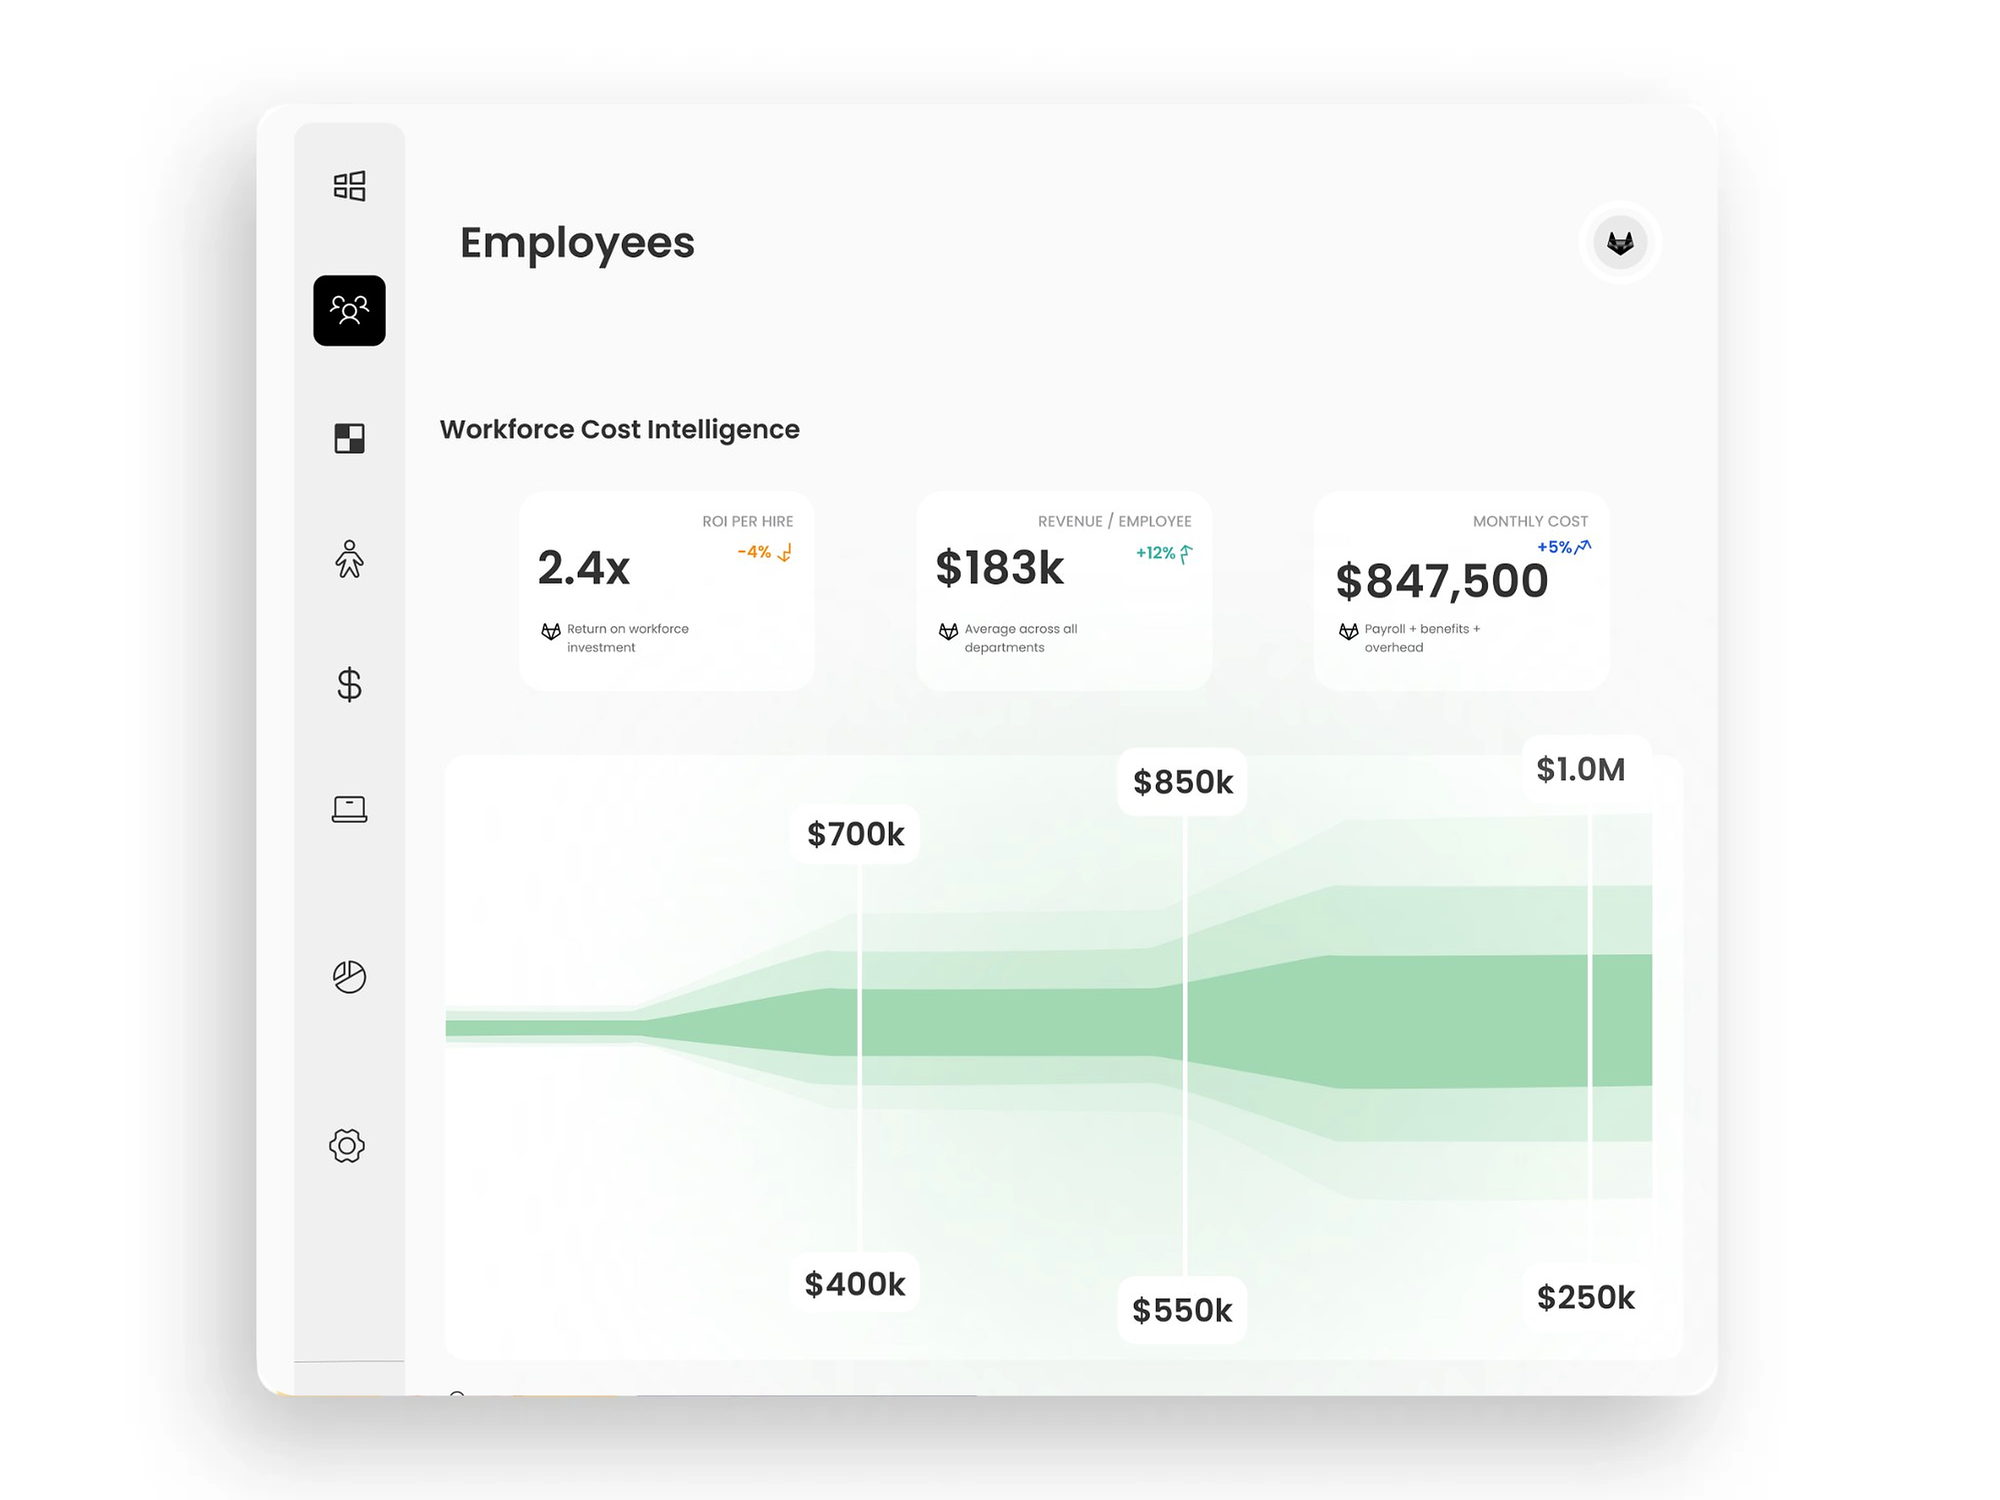
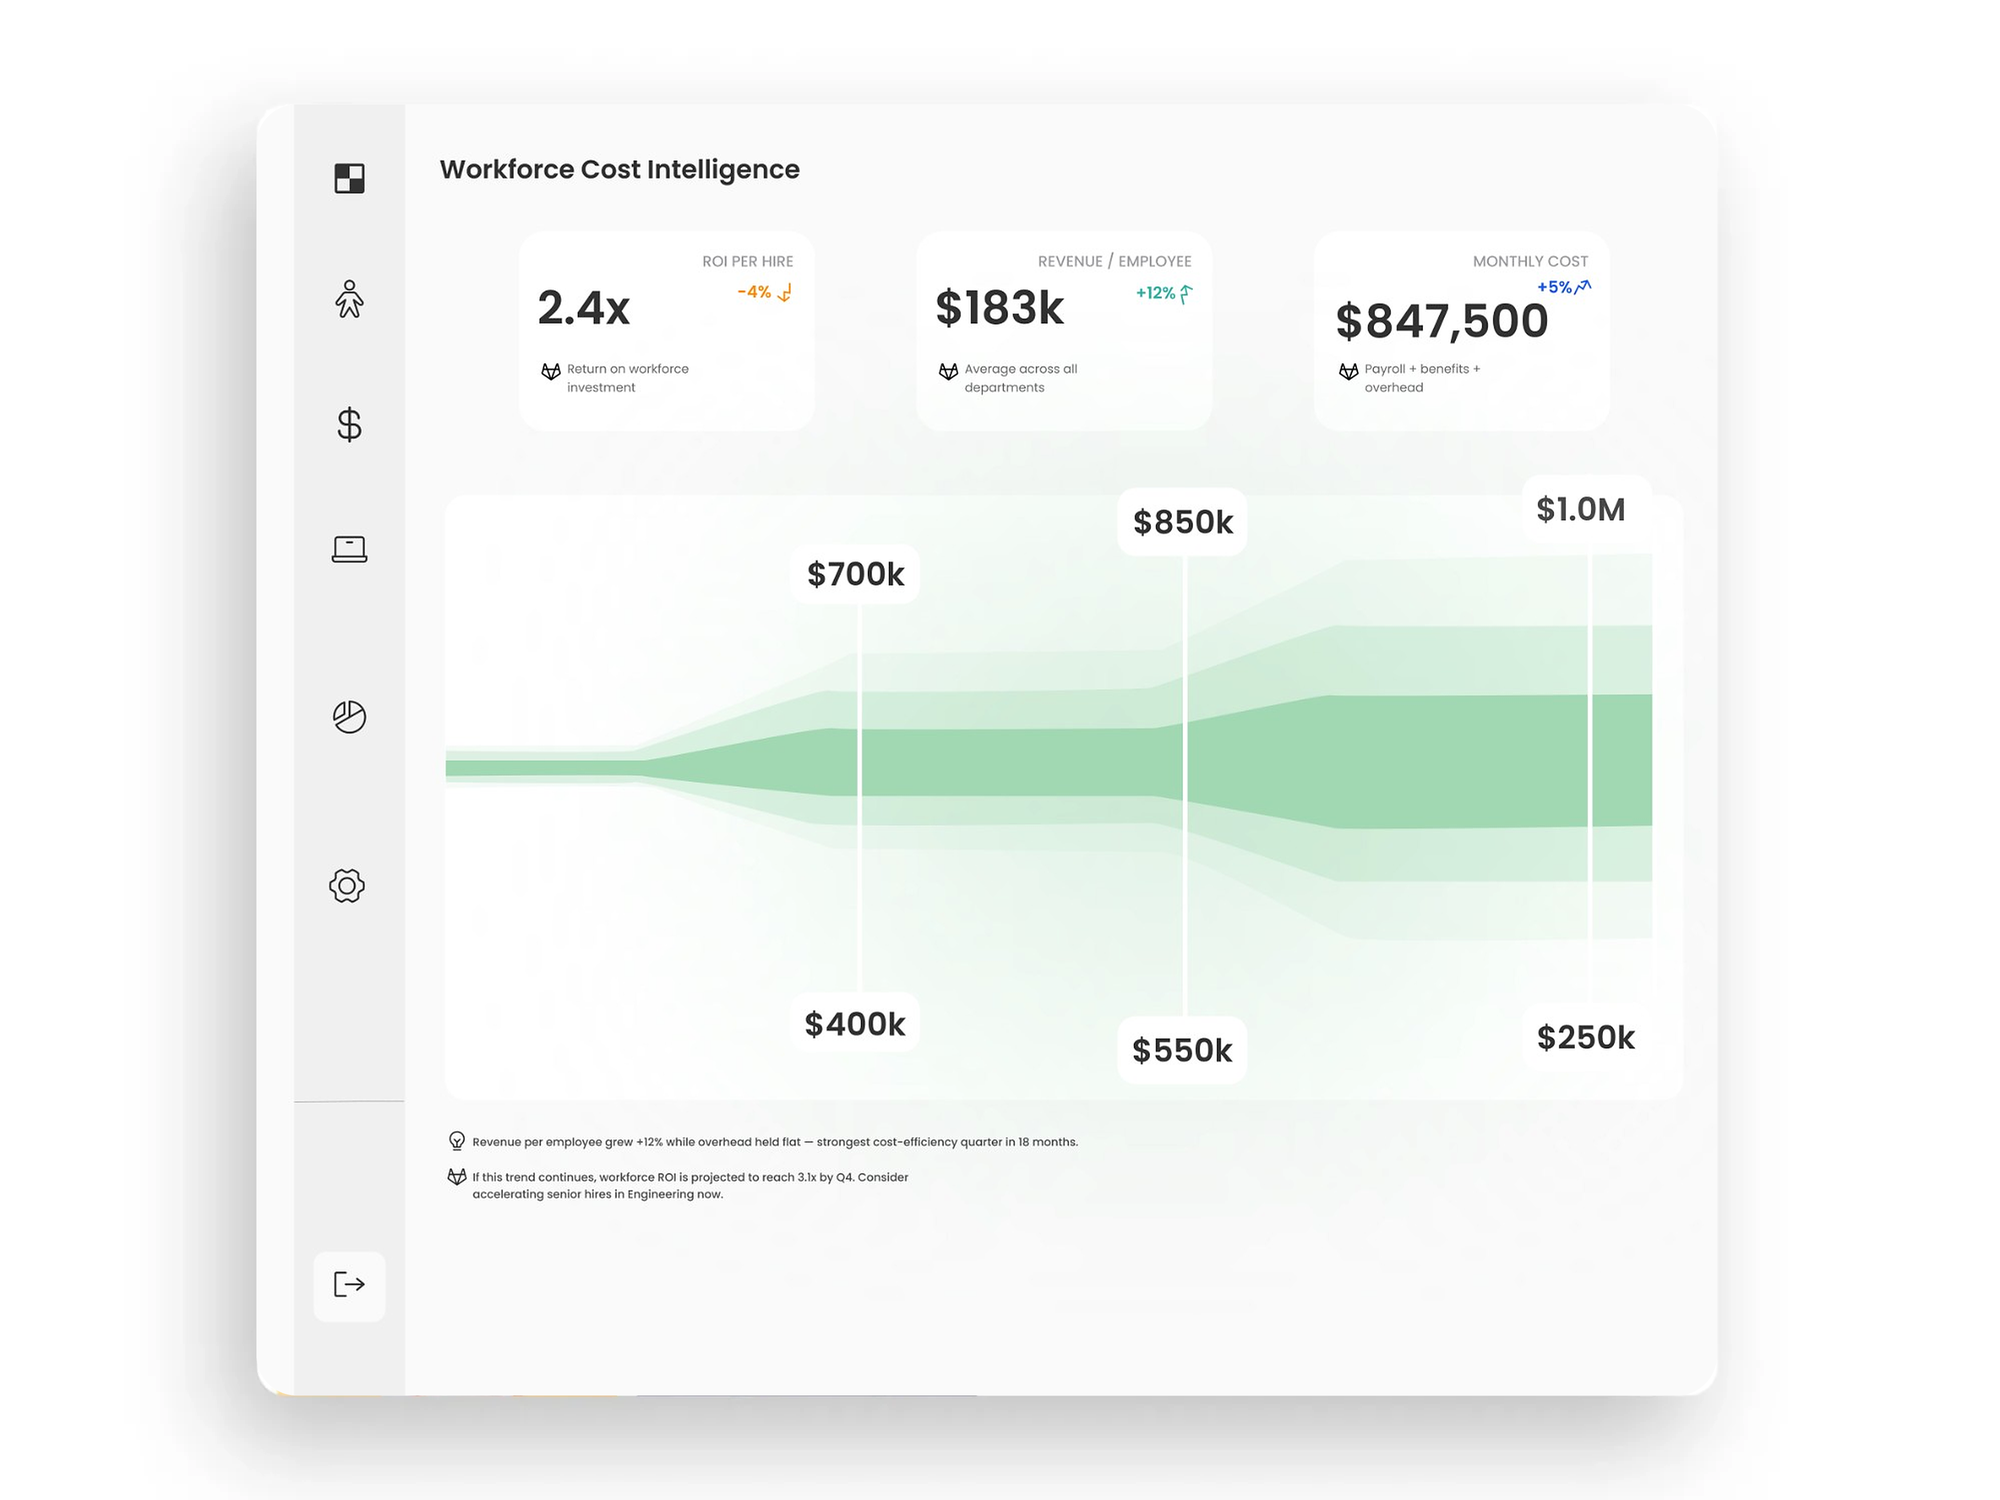
Workforce Cost Intelligence (Employees) in all five page-card styles
Claude-Session: https://claude.ai/code/session_01FdYAnoP1AuAPuCnLWf7gdc

diff --git a/behance-cover/mockups/set35.py b/behance-cover/mockups/set35.py
@@ -1,0 +1,39 @@
+# Five flat "page card" styles (245-249), each holding a different Foxlytics page snap. The snap is
+# a full-width band of the page at the card's aspect (no stretch), taken from a chosen row; corners
+# follow each card's radius. Outputs per mockup: 4000x3000 PNG (+2000, 1000) and a 16:9 artboard.
+import numpy as np
+from PIL import Image, ImageDraw, ImageFilter
+I = '/tmp/claude-0/-home-user-claude-Ai-website-1/fd49522e-f0ff-52ed-b6c7-08cca43cc4fd/images/'
+SETS = {   # this Employees page in all five cards, from "Workforce Cost Intelligence" with a little space above
+    'nirvaan-employees':    ('245.png',  (86.5, 70, 1514, 1200), 20, False),
+    'serife-employees':     ('246.webp', (140.5, 167.5, 1460, 1034), 24, True),
+    'evident-employees':    ('247.webp', (125, 192, 1474.5, 1008), 14, True),
+    'travertine-employees': ('248.webp', (136.5, 137.5, 1850.5, 1500), 8, False),
+    'leon-employees':       ('249.webp', (256.5, 104.5, 1717, 1395.5), 40, True),
+}
+PF, TOP, BOT = '250.jpg', 440, 1445   # must show: title (505) down to the chart's bottom labels (~1430)
+for name, (sf, (l, t, r, b), rad, rb) in SETS.items():
+    pf, top = PF, TOP
+    base = Image.open(I + sf).convert('RGB'); F = 4000 / base.width; W, H = 4000, round(base.height * F)
+    sc = base.resize((W, H), Image.LANCZOS)
+    page = Image.open(I + pf).convert('RGB'); bg = page.getpixel((page.width // 2, page.height - 5))
+    cw, ch = round((r - l) * F), round((b - t) * F)
+    asp = (r - l) / (b - t); need = BOT - TOP
+    if page.width / asp >= need:   # tall card: full width, page continues below the section
+        bw, bh = page.width, round(page.width / asp)
+    else:                          # wide card: fit the section's height, page colour at the sides
+        bw, bh = round(need * asp), need
+    band = Image.new('RGB', (bw, bh), bg)
+    band.paste(page.crop((0, top, page.width, min(top + bh, page.height))), ((bw - page.width) // 2, 0)); k = cw / bw
+    snap = band.resize((cw, ch), Image.LANCZOS)
+    snap = snap.point(lambda v: round(255 * (v / 255) ** 1.08)).filter(ImageFilter.UnsharpMask(radius=0.7 * k, percent=70, threshold=2))
+    S = 2; m = Image.new('L', (cw * S, ch * S), 0); d = ImageDraw.Draw(m)
+    d.rounded_rectangle((0, 0, cw * S - 1, ch * S - 1), round(rad * F * S), fill=255)
+    if not rb: d.rectangle((0, ch * S // 2, cw * S, ch * S), fill=255)
+    m = m.resize((cw, ch), Image.LANCZOS)
+    sc.paste(snap, (round(l * F), round(t * F)), m)
+    out = sc if H == 3000 else sc.resize((4000, 3000), Image.LANCZOS)
+    out.save(f'uw-{name}-x4-4000.png', optimize=True)
+    out.resize((2000, 1500), Image.LANCZOS).save(f'uw-{name}-2000.png', optimize=True); out.resize((1000, 750), Image.LANCZOS).save(f'uw-{name}-1000.png', optimize=True)
+    out.crop((0, 375, 4000, 2625)).resize((2800, 1576), Image.LANCZOS).save(f'ab-{name}-2800.png')
+    print('done', name, round(k, 2))
